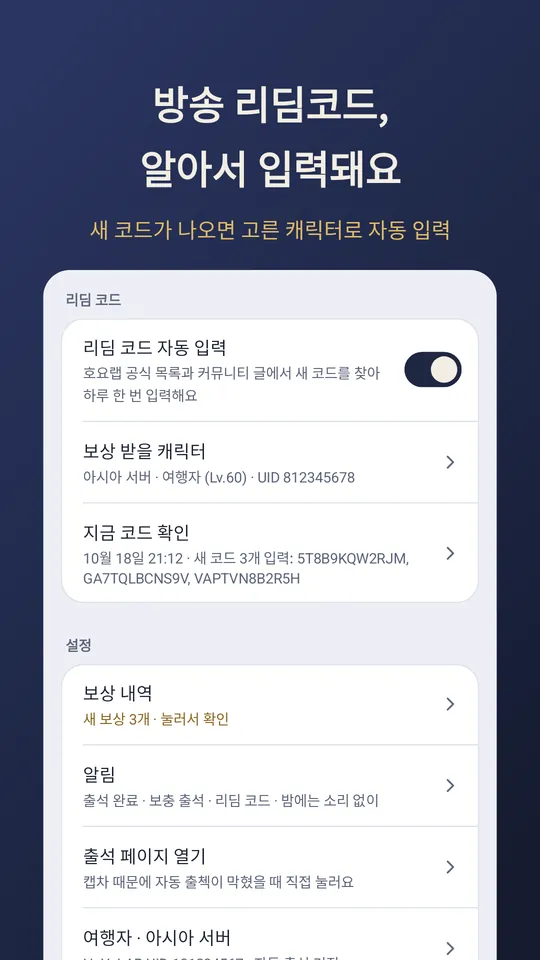
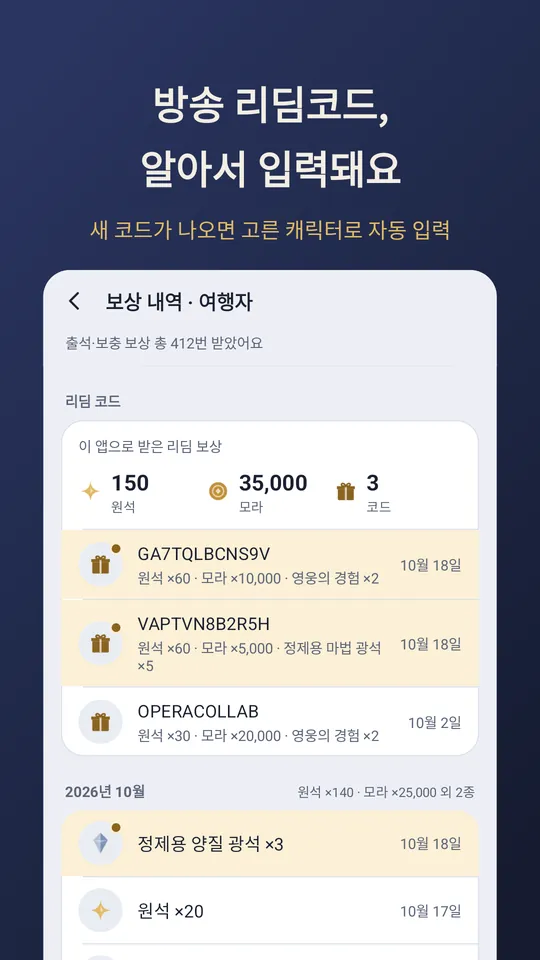
소개 페이지: 새 화면 스크린샷
Claude-Session: https://claude.ai/code/session_01AVkzu9p2ytMeGHejvvs68H

Changed region(s): [[0.0889, 0.2812, 0.8889, 1.0], [0.7407, 0.3438, 0.8593, 0.4062]]

diff --git a/checkin/index.html b/checkin/index.html
@@ -46,13 +46,12 @@
   <p class="muted">안드로이드 8.0 이상. 정식 출시를 위해 테스터가 2주 동안 앱을 유지해야 해요. 지우지 말아 주세요. 불편한 점은 <a href="mailto:apps@sumi.kr">apps@sumi.kr</a>로 알려 주시면 고쳐서 올릴게요.</p>
 
   <div class="shots" aria-label="앱 화면">
-    <img src="/checkin/img/screenshot1Redeem.webp" alt="방송 리딤코드를 알아서 입력하는 화면" width="540" height="960" loading="lazy">
-    <img src="/checkin/img/screenshot2CheckIn.webp" alt="새벽 1시 서버 시각에 자동 출석하는 화면" width="540" height="960" loading="lazy">
+    <img src="/checkin/img/screenshot1Redeem.webp" alt="받은 리딤 코드와 보상 합계 화면" width="540" height="960" loading="lazy">
+    <img src="/checkin/img/screenshot2CheckIn.webp" alt="새벽 1시 서버 시각에 자동 출석하는 메인 화면" width="540" height="960" loading="lazy">
     <img src="/checkin/img/screenshot3History.webp" alt="이번 달 받은 원석과 리딤 보상 합계 화면" width="540" height="960" loading="lazy">
-    <img src="/checkin/img/screenshot4MakeUp.webp" alt="놓친 날 보충 출석 화면" width="540" height="960" loading="lazy">
-    <img src="/checkin/img/screenshot5Alerts.webp" alt="밤에 온 알림은 무음으로, 아침 알림은 그대로 오는 알림창" width="540" height="960" loading="lazy">
-    <img src="/checkin/img/screenshot6Dark.webp" alt="여러 계정과 다크 모드 화면" width="540" height="960" loading="lazy">
-    <img src="/checkin/img/screenshot7Trust.webp" alt="비밀번호 저장 안 함, 서버·광고 없음, 1MB 미만" width="540" height="960" loading="lazy">
+    <img src="/checkin/img/screenshot4Alerts.webp" alt="밤에 온 알림은 무음으로, 아침 알림은 그대로 오는 알림창" width="540" height="960" loading="lazy">
+    <img src="/checkin/img/screenshot5Dark.webp" alt="여러 계정과 다크 모드 화면" width="540" height="960" loading="lazy">
+    <img src="/checkin/img/screenshot6Trust.webp" alt="비밀번호 저장 안 함, 서버·광고 없음, 1MB 미만" width="540" height="960" loading="lazy">
   </div>
 
   <h2>하는 일</h2>
